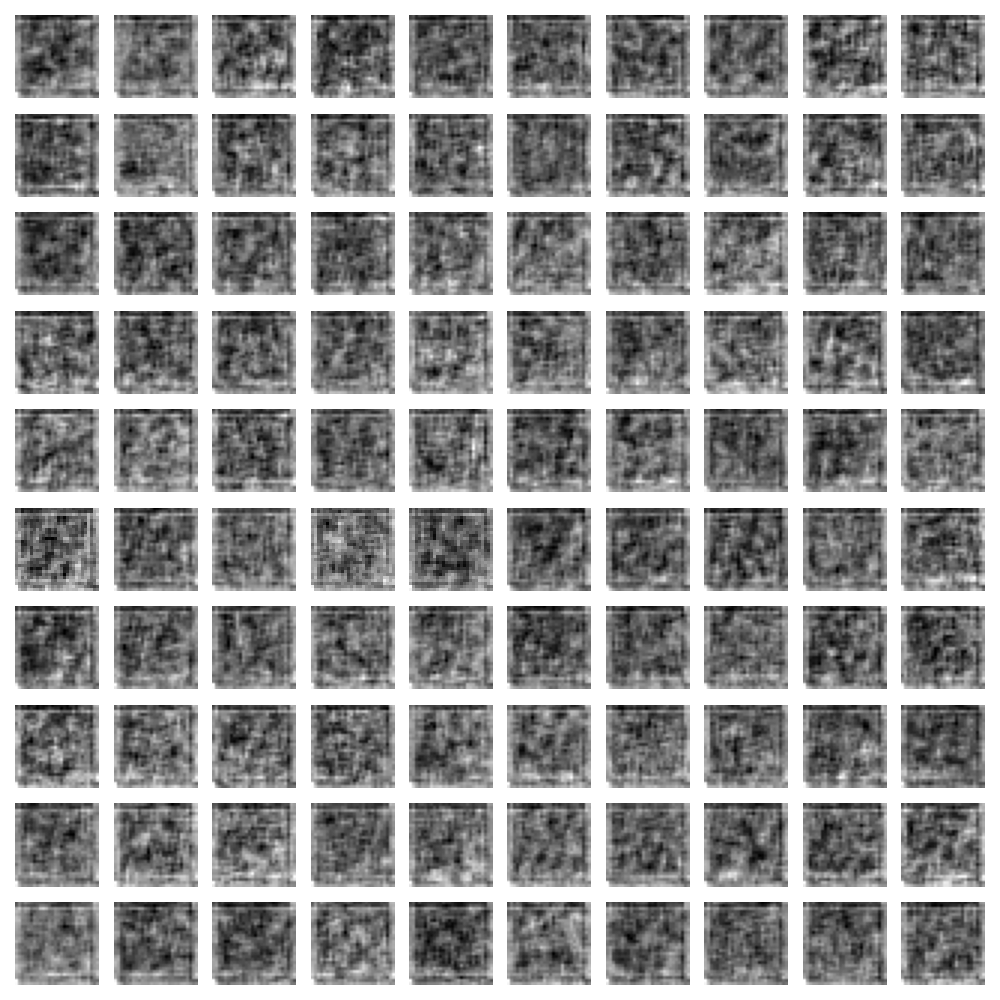
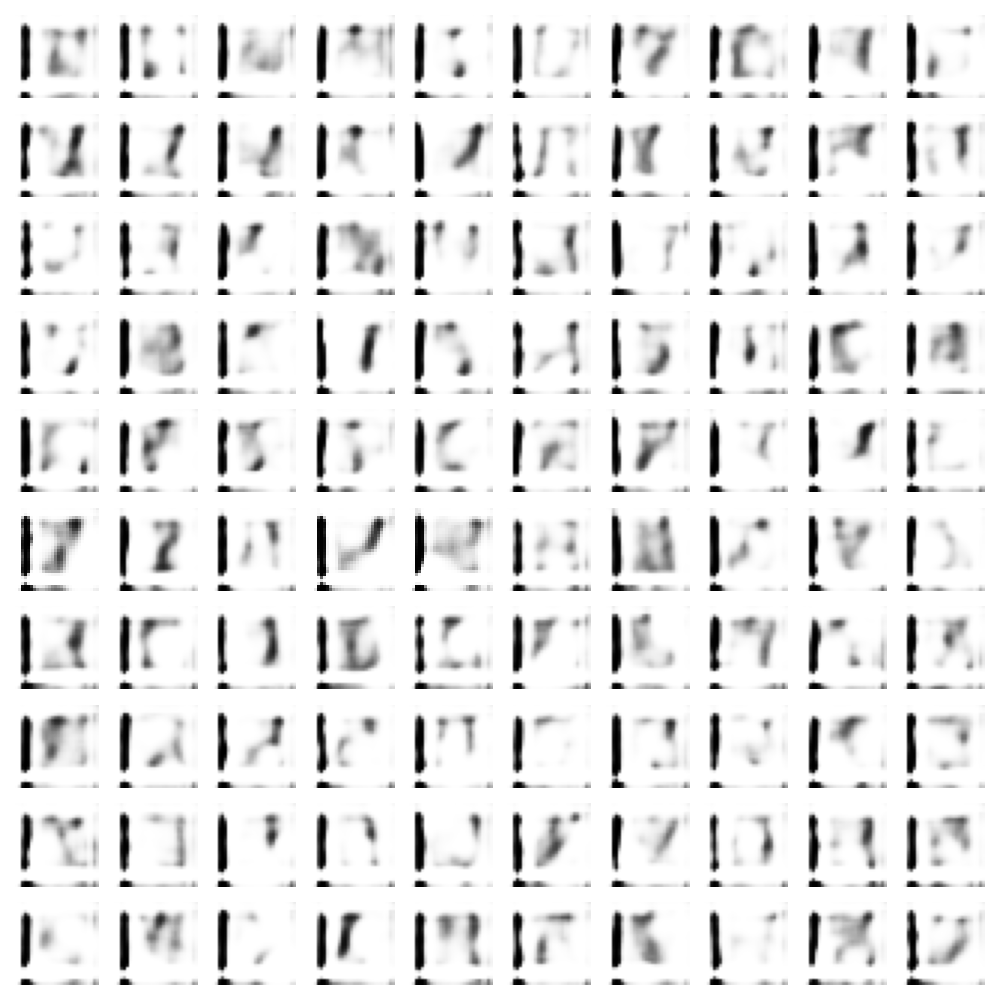
Train in minibatches

diff --git a/src/models/train_model.py b/src/models/train_model.py
@@ -12,6 +12,10 @@ def train_model(num_epochs, num_batch=4, batch_size=16):
     full_size = num_batch * batch_size
 
     data = load_data(path=dc.ENVELOPE_DATA_PATH, full_size=full_size)
+    real = np.ones((batch_size // 2, 1))
+    fake = np.zeros((batch_size // 2, 1))
+
+    ones = np.ones((batch_size, 1))
 
     generator, discriminator, gan = build_GAN()
     for epoch in range(num_epochs):
@@ -20,28 +24,24 @@ def train_model(num_epochs, num_batch=4, batch_size=16):
 
             # train discriminator
             images_real = data[np.random.randint(
-                0, data.shape[0], size=batch_size)]
-            images_fake = generator.predict(generate_random_data(batch_size))
+                0, data.shape[0], size=batch_size//2)]
+            d_loss_real = discriminator.train_on_batch(images_real, real)
 
-            X = np.concatenate((images_real, images_fake))
-            y = np.ones([2 * batch_size, 1])
-            y[batch_size:, :] = 0
-            d_loss = discriminator.train_on_batch(X, y)[1]
+            images_fake = generator.predict(
+                generate_random_data(batch_size//2))
+            d_loss_fake = discriminator.train_on_batch(
+                images_fake, fake)
 
             # train generator
             discriminator.trainable = False
             noise = generate_random_data(batch_size)
-            y = np.ones(batch_size)
-            g_loss = gan.train_on_batch(noise, y)[1]
-            print("disc loss:{}, gan loss:{}".format(
-                d_loss, g_loss))
 
-        if epoch % 5 == 0:
+            g_loss = gan.train_on_batch(noise, ones)[1]
+            print("disc loss real:{}, disc loss fake:{}, gan loss:{}".format(
+                d_loss_real, d_loss_fake, g_loss))
+
+        if epoch % 1 == 0:
             noise = generate_random_data(100)
             images = convert_to_image(generator.predict(noise))
             plot_images(
                 images, path="figures/results/epoch_{}".format(epoch), show=False, save=True)
-    noise = generate_random_data(100)
-    prediction = generator.predict(noise)
-    images = convert_to_image(prediction)
-    plot_images(images)

diff --git a/src/models/build_model.py b/src/models/build_model.py
@@ -11,20 +11,17 @@ def build_discriminator():
     model = keras.models.Sequential([
         # In: 28 x 28 x 1, depth = 1
         # Out: 14 x 14 x 1, depth=64
-        keras.layers.Conv2D(depth, 5, strides=2,
+        # [(W−K+2P)/S]+1
+        keras.layers.Conv2D(depth, kernel_size=4, strides=2,
                             input_shape=input_shape, padding='same'),
         keras.layers.LeakyReLU(alpha=0.2),
         keras.layers.Dropout(dropout),
 
-        keras.layers.Conv2D(depth*2, 5, strides=2, padding='same'),
+        keras.layers.Conv2D(depth*2, kernel_size=4, strides=2, padding='same'),
         keras.layers.LeakyReLU(alpha=0.2),
         keras.layers.Dropout(dropout),
 
-        keras.layers.Conv2D(depth*4, 5, strides=2, padding='same'),
-        keras.layers.LeakyReLU(alpha=0.2),
-        keras.layers.Dropout(dropout),
-
-        keras.layers.Conv2D(depth*8, 5, strides=1, padding='same'),
+        keras.layers.Conv2D(depth*2, kernel_size=4, strides=1, padding='same'),
         keras.layers.LeakyReLU(alpha=0.2),
         keras.layers.Dropout(dropout),
 
@@ -34,7 +31,7 @@ def build_discriminator():
         keras.layers.Activation('sigmoid'),
     ])
 
-    model.compile(optimizer=keras.optimizers.Adam(learning_rate=0.0002), loss='binary_crossentropy',
+    model.compile(optimizer=keras.optimizers.Adam(learning_rate=0.0001), loss='binary_crossentropy',
                   metrics=['binary_accuracy'])
     return model
 
@@ -83,6 +80,6 @@ def build_GAN():
         generator,
         discriminator
     ])
-    gan.compile(optimizer=keras.optimizers.Adam(learning_rate=0.0001), loss='binary_crossentropy',
+    gan.compile(optimizer=keras.optimizers.Adam(learning_rate=0.005), loss='binary_crossentropy',
                 metrics=['binary_accuracy'])
     return generator, discriminator, gan

diff --git a/src/data_help/make_dataset.py b/src/data_help/make_dataset.py
@@ -13,8 +13,8 @@ def load_data(path, full_size=1000, verbose=False):
         print(data.dtype)
         print("----------")
 
-    # resize data to fit in [0, 1]
-    data = (data.astype(np.float32)) / 255
+    # resize data to fit in [-1, 1]
+    data = (data.astype(np.float32)) / 127.5 - 1
     return convert_to_image(data)
 
 

diff --git a/src/main.py b/src/main.py
@@ -1,3 +1,3 @@
 from models.train_model import train_model
 
-train_model(num_epochs=20, num_batch=8, batch_size=32)
+train_model(num_epochs=11, num_batch=8, batch_size=32)
